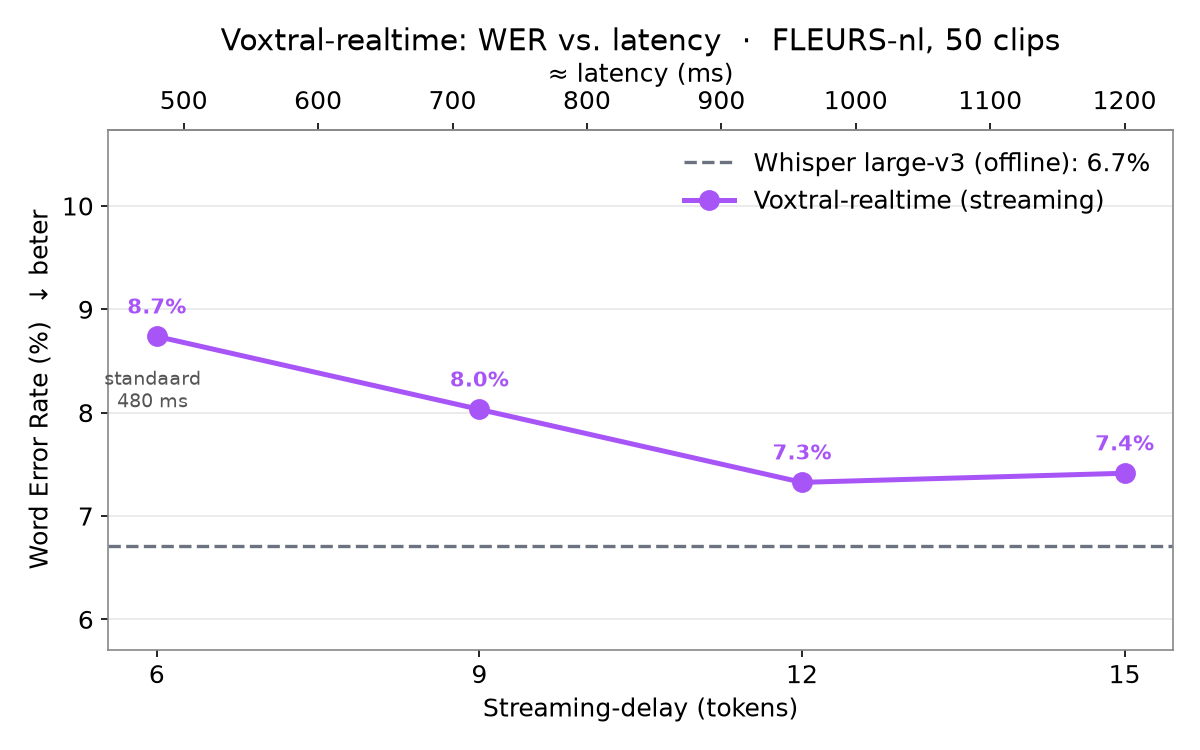
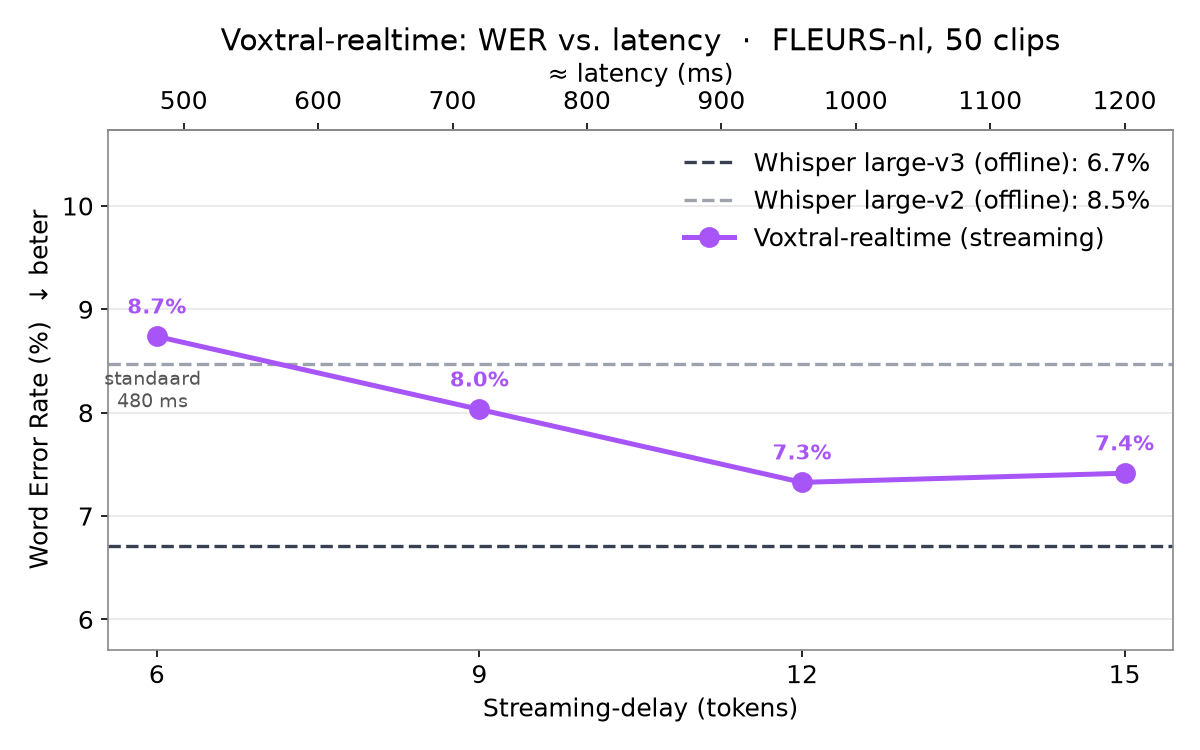
bench: add Whisper large-v2 baseline to the comparison
On 80 clips large-v2 scores 7.8% WER (between large-v3 6.2% and Voxtral
9.0%). On the 50-clip delay set large-v2 is 8.5% — and Voxtral-realtime
overtakes it with just 9 delay tokens (8.0%), reaching 7.3% at 12. The
WER-vs-latency chart now shows both Whisper baselines. Adds whisper_eval.py
for scoring any Whisper model as an extra baseline line.

Changed region(s): [[0.555, 0.2453, 0.9558, 0.3373]]

diff --git a/bench/whisper_eval.py b/bench/whisper_eval.py
@@ -1,0 +1,72 @@
+#!/usr/bin/env python3
+"""Score one Whisper model's WER, either on the prepped sweep clips (--dir) or on
+N freshly streamed FLEURS-nl clips (--n). Writes <dir>/whisper_<model>.json when
+run against a clips dir, so plot_delay.py can pick it up as a baseline line.
+"""
+import argparse
+import io
+import json
+import os
+import re
+
+import soundfile as sf
+from jiwer import wer
+
+
+def normalize(s):
+    s = s.lower()
+    s = re.sub(r"[^\w\s]", " ", s, flags=re.UNICODE)
+    return re.sub(r"\s+", " ", s).strip()
+
+
+def main():
+    ap = argparse.ArgumentParser()
+    ap.add_argument("--model", required=True)
+    ap.add_argument("--dir", default=None, help="prepped clips dir (uses meta.json)")
+    ap.add_argument("--n", type=int, default=80, help="stream N clips if --dir not given")
+    ap.add_argument("--gpu", default="0")
+    args = ap.parse_args()
+    os.environ["CUDA_VISIBLE_DEVICES"] = args.gpu
+
+    from faster_whisper import WhisperModel
+    print(f"Whisper laden: {args.model}", flush=True)
+    wm = WhisperModel(args.model, device="cuda", compute_type="float16")
+
+    def tx(path):
+        segs, _ = wm.transcribe(path, language="nl", beam_size=5)
+        return " ".join(s.text for s in segs).strip()
+
+    refs, hyps = [], []
+    if args.dir:
+        meta = json.load(open(os.path.join(args.dir, "meta.json")))
+        for i, c in enumerate(meta["clips"]):
+            refs.append(normalize(c["ref"])); hyps.append(normalize(tx(c["file"])))
+            print(f"[{i+1}/{len(meta['clips'])}]", flush=True)
+        n = len(meta["clips"])
+    else:
+        from datasets import load_dataset, Audio
+        ds = load_dataset("google/fleurs", "nl_nl", split="test", streaming=True)
+        ds = ds.cast_column("audio", Audio(decode=False))
+        tmp = "/tmp/_we_clip.wav"
+        it = iter(ds)
+        for i in range(args.n):
+            ex = next(it)
+            arr, sr = sf.read(io.BytesIO(ex["audio"]["bytes"]), dtype="float32")
+            if arr.ndim > 1:
+                arr = arr.mean(axis=1)
+            sf.write(tmp, arr, sr, subtype="PCM_16")
+            refs.append(normalize(ex["transcription"])); hyps.append(normalize(tx(tmp)))
+            print(f"[{i+1}/{args.n}]", flush=True)
+        n = args.n
+
+    w = wer(refs, hyps)
+    print(f"\nWhisper {args.model} WER = {100*w:.1f}%  ({n} clips)")
+    if args.dir:
+        out = os.path.join(args.dir, f"whisper_{args.model}.json")
+        json.dump({"whisper_model": args.model, "whisper_wer": w, "clips": n},
+                  open(out, "w"), ensure_ascii=False, indent=2)
+        print("geschreven:", out)
+
+
+if __name__ == "__main__":
+    main()

diff --git a/bench/plot_delay.py b/bench/plot_delay.py
@@ -22,15 +22,22 @@ ms = [p[1] for p in pts]
 wv = [p[2] for p in pts]
 
 meta = json.load(open(META))
-whisper_wer = 100 * meta["whisper_wer"]
-whisper_model = meta["whisper_model"]
 n = len(meta["clips"])
+
+# Whisper-baselines: v3 uit meta + extra whisper_<model>.json bestanden
+baselines = {meta["whisper_model"]: 100 * meta["whisper_wer"]}
+for f in glob.glob(os.path.join(os.path.dirname(META), "whisper_*.json")):
+    d = json.load(open(f))
+    baselines[d["whisper_model"]] = 100 * d["whisper_wer"]
+all_wer = wv + list(baselines.values())
 
 plt.rcParams.update({"font.size": 12, "axes.edgecolor": "#888"})
 fig, ax = plt.subplots(figsize=(8, 5))
 
-ax.axhline(whisper_wer, ls="--", lw=1.6, color="#6b7280",
-           label=f"Whisper {whisper_model} (offline): {whisper_wer:.1f}%")
+bl_colors = {"large-v3": "#374151", "large-v2": "#9ca3af", "medium": "#cbd5e1"}
+for name, w in sorted(baselines.items(), key=lambda kv: kv[1]):
+    ax.axhline(w, ls="--", lw=1.6, color=bl_colors.get(name, "#6b7280"),
+               label=f"Whisper {name} (offline): {w:.1f}%")
 ax.plot(toks, wv, "-o", lw=2.4, ms=9, color="#a855f7", label="Voxtral-realtime (streaming)")
 for t, m, w in pts:
     ax.annotate(f"{w:.1f}%", (t, w), textcoords="offset points", xytext=(0, 11),
@@ -50,10 +57,8 @@ sec = ax.secondary_xaxis("top", functions=(lambda x: x * 80.0, lambda x: x / 80.
 sec.set_xlabel("≈ latency (ms)")
 ax.grid(True, axis="y", alpha=0.3)
 ax.legend(loc="best", frameon=False)
-lo = min(min(wv), whisper_wer) - 1.0
-hi = max(max(wv), whisper_wer) + 2.0
-ax.set_ylim(max(0, lo), hi)
+ax.set_ylim(max(0, min(all_wer) - 1.0), max(all_wer) + 2.0)
 fig.tight_layout()
 fig.savefig(OUT, dpi=150)
 print("geschreven:", OUT)
-print("punten:", pts, "| whisper:", round(whisper_wer, 1))
+print("punten:", pts, "| baselines:", {k: round(v, 1) for k, v in baselines.items()})

diff --git a/README.md b/README.md
@@ -109,12 +109,14 @@ speech), as Word Error Rate against [faster-whisper](https://github.com/SYSTRAN/
 | Model | WER ↓ | |
 |---|---|---|
 | Whisper large-v3 | **6.2 %** | offline, full context, 1.5 B |
+| Whisper large-v2 | 7.8 % | offline, full context, 1.5 B |
 | **Voxtral-realtime** | **9.0 %** | **streaming**, limited right-context, 4 B |
 | Whisper medium | 12.6 % | offline, full context, 769 M |
 
-The realtime model lands **between Whisper-medium and large-v3** — it beats offline medium
-outright and trails the much-loved large-v3 by only ~3 points, while doing the strictly harder
-*streaming* job (committing text before the sentence has finished).
+The realtime model lands **between Whisper large-v2 and medium** — it beats offline medium
+comfortably and trails large-v2/large-v3 by a few points, while doing the strictly harder
+*streaming* job (committing text before the sentence has finished). And as the latency section
+below shows, a little more delay lets it **overtake offline large-v2** outright.
 
 Where it loses ground is mostly the **first word or two** of an utterance (its ~562 ms priming
 window) and rare proper nouns / compounds:
@@ -156,11 +158,14 @@ and re-measuring WER on the same 50 FLEURS-nl clips:
 | 12 tokens | 960 ms | **7.3 %** |
 | 15 tokens | 1200 ms | 7.4 % |
 
-More lookahead buys real accuracy: WER falls steadily and at **12 tokens (~960 ms)** the
-streaming model (7.3 %) closes most of the gap to *offline* Whisper large-v3 (6.7 % on these
-clips) — then flattens (15 tokens gives nothing more). The model tolerates the larger delay
-cleanly even though it was trained at 6, so this is effectively a free inference-time knob:
-**~double the latency for ~1.4 points of WER**, with diminishing returns past ~960 ms.
+(Whisper baselines on the same 50 clips: large-v3 6.7 %, large-v2 8.5 %.)
+
+More lookahead buys real accuracy: WER falls steadily and at **9 tokens (~720 ms) the streaming
+model already overtakes offline Whisper large-v2** (8.5 %); by **12 tokens (~960 ms)** it reaches
+7.3 %, closing most of the remaining gap to large-v3 — then flattens (15 tokens gives nothing
+more). The model tolerates the larger delay cleanly even though it was trained at 6, so this is
+effectively a free inference-time knob: **~double the latency for ~1.4 points of WER**, with
+diminishing returns past ~960 ms.
 
 Mistral's default of 6 is a deliberate sub-500 ms operating point. If your use case can spend
 a second of latency (dictation, meeting notes, captions that lag a beat), raising the delay is
@@ -238,7 +243,8 @@ bench/                            Whisper-vs-Voxtral Dutch WER benchmark
   run_delay_sweep.sh              latency/accuracy sweep (6/9/12/15 delay tokens)
   delay_patch/sitecustomize.py    scales transcription_delay_ms at server start
   prep_clips.py / sweep_voxtral.py / plot_delay.py   sweep harness + chart
-  delay_vs_wer.png                the WER-vs-latency chart
+  whisper_eval.py                 score any Whisper model (extra baseline lines)
+  delay_vs_wer.png                the WER-vs-latency chart (v3 + v2 baselines)
 ```
 
 ## Troubleshooting

diff --git a/bench/README.md b/bench/README.md
@@ -83,10 +83,15 @@ sits in the model's ~480 ms output-delay buffer — is not clipped.
 (auto-imported through `PYTHONPATH`, controlled by `$VOXTRAL_DELAY_SCALE`).
 
 ```bash
-~/whisper-bench/bin/python bench/prep_clips.py --n 50 --gpu 0   # clips + Whisper baseline (once)
+~/whisper-bench/bin/python bench/prep_clips.py --n 50 --gpu 0   # clips + large-v3 baseline (once)
+~/whisper-bench/bin/python bench/whisper_eval.py --model large-v2 --dir /tmp/sweep_clips  # extra baseline line
 bash bench/run_delay_sweep.sh                                   # stops/restarts the server per delay
 ~/whisper-bench/bin/python bench/plot_delay.py                  # -> bench/delay_vs_wer.png
 ```
+
+`plot_delay.py` draws a dashed line for every `whisper_*.json` baseline in the clips dir, so add
+as many Whisper models as you like with `whisper_eval.py`. On 50 clips the curve crosses **below
+offline large-v2 (8.5 %)** by 9 delay tokens.
 
 > The sweep **restarts the Voxtral server** for each delay (it reuses the single
 > V100 slot), so live transcription on that server pauses while it runs. It restores